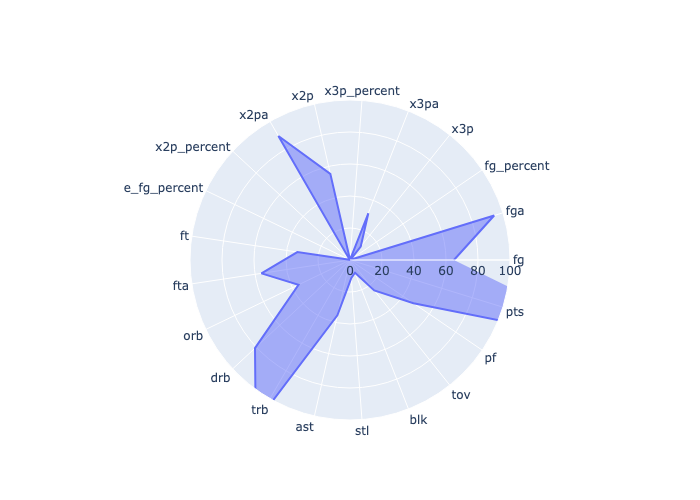
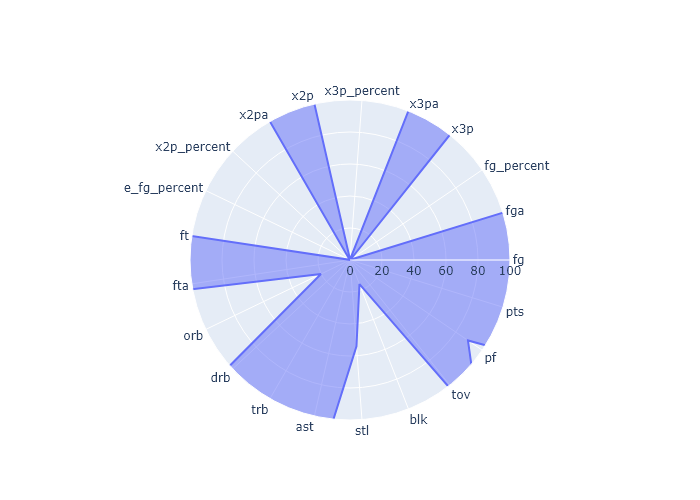
Plot protection

diff --git a/NBABackend/models/auth.py b/NBABackend/models/auth.py
@@ -1,3 +1,4 @@
+import json
 from flask import Blueprint, render_template, request, flash, redirect, url_for
 from sklearn.model_selection import train_test_split
 import pickle
@@ -21,6 +22,9 @@ import requests
 import plotly.express as px
 import plotly.graph_objects as go
 import plotly.io as pio
+import plotly.graph_objs as go
+import plotly.io as pio
+import plotly.utils as pu
 
 auth = Blueprint("auth", __name__)
 
@@ -91,6 +95,9 @@ def login():
                 newtrial.append([key, team, chemistry])
 
         df = pd.read_csv('NBABackend/csv/output4.csv')
+        rows_to_drop = df[df["season"] == 2023].index
+
+        df.drop(rows_to_drop, inplace=True)
         filtcols = df.columns[-25:-4]
         p = {
             'C': df[df['player'] == playerOne][filtcols].values[0],
@@ -121,11 +128,15 @@ def login():
 
         currentTeam = np.append(currentTeam, chemistry)
         
+       
         with open('final3.pkl', 'rb') as file:
             model = pickle.load(file)
+        
         prediction = model.predict([currentTeam])
         # print(prediction)
+        
         generatePlot(currentTeam, filtcols)
+       
         return render_template('result.html', text = prediction)
 
     return render_template("/project.html", text = "Trial")
@@ -148,7 +159,6 @@ def generatePlot(team, cols):
     )
 
     pio.write_image(fig, 'NBABackend/static/Images/plot.png')
-
 
 def calculate_win_percentage(wins_losses):
     num_wins = wins_losses.count('W')
